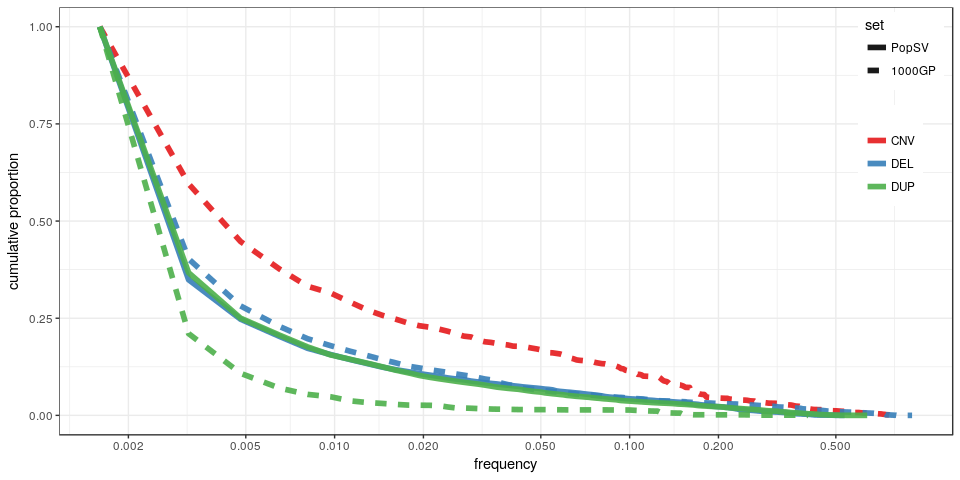
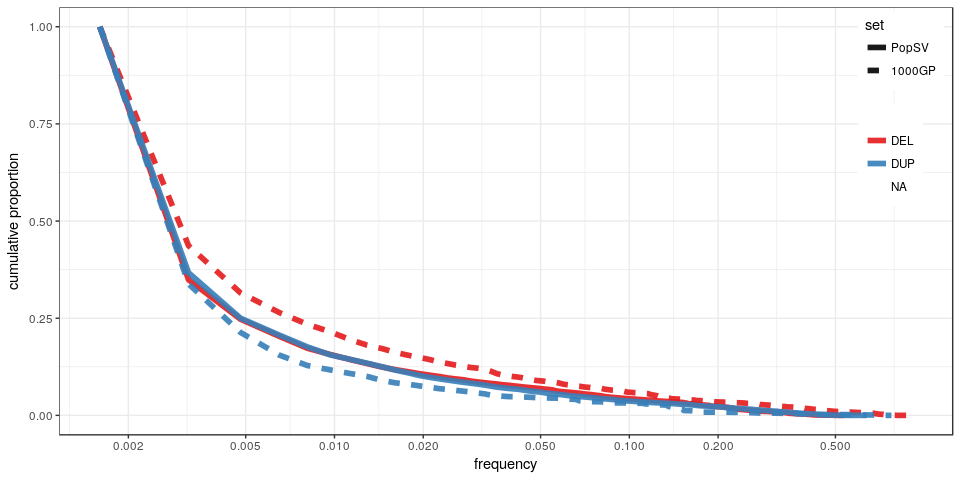
CN for tgp catalog

diff --git a/reports/PopSV-catalog-overview.md b/reports/PopSV-catalog-overview.md
@@ -150,7 +150,7 @@ On average in the individuals from the Twins dataset and the normals from the Ca
 --------------------------------
 
 ``` r
-load("../data/tgp-CNV-noX.RData")
+load("../data/tgp-CNV-noX-noCNV.RData")
 tgp.comp = subset(tgp, svsize > 300 & prop < 0.8)
 tgp.comp$extlowmap.prop = olProp(tgp.comp, extlowmap.gr)
 tgp.comp$extlowmap = tgp.comp$extlowmap.prop >= 0.9
@@ -162,11 +162,10 @@ nbCallCollapsed <- function(reg.gr) {
         nrow
 }
 sum.tgp.df = rbind(tgp.comp %>% as.data.frame %>% compAllNumbers %>% mutate(project = "1000GP", 
-    type = "all"), tgp.comp %>% as.data.frame %>% filter(type == "CNV") %>% 
-    compAllNumbers %>% mutate(project = "1000GP", type = "CNV"), tgp.comp %>% 
-    as.data.frame %>% filter(type == "DEL") %>% compAllNumbers %>% mutate(project = "1000GP", 
-    type = "DEL"), tgp.comp %>% as.data.frame %>% filter(type == "DUP") %>% 
-    compAllNumbers %>% mutate(project = "1000GP", type = "DUP"))
+    type = "all"), tgp.comp %>% as.data.frame %>% filter(type == "DEL") %>% 
+    compAllNumbers %>% mutate(project = "1000GP", type = "DEL"), tgp.comp %>% 
+    as.data.frame %>% filter(type == "DUP") %>% compAllNumbers %>% mutate(project = "1000GP", 
+    type = "DUP"))
 
 sum.tgp.df %>% select(project, type, everything()) %>% kable(digits = 2)
 ```
@@ -174,9 +173,8 @@ sum.tgp.df %>% select(project, type, everything()) %>% kable(digits = 2)
 | project | type |  sample|  nb.calls|  nb.calls.samp|  nb.lm.samp|  mean.size.kb|  prop.less3kb|  nb.less3kb.samp|  gen.mb|  gen.mb.min|  gen.mb.samp|  gen.mb.max|
 |:--------|:-----|-------:|---------:|--------------:|-----------:|-------------:|-------------:|----------------:|-------:|-----------:|------------:|-----------:|
 | 1000GP  | all  |    2504|     41979|        1024.44|        2.22|          6.00|          0.68|           700.52|  580.03|        3.39|         6.14|       26.30|
-| 1000GP  | CNV  |    2504|      2713|          92.07|        0.77|         25.23|          0.00|             0.00|   84.07|        0.81|         2.32|        6.69|
-| 1000GP  | DEL  |    2504|     33520|         920.97|        1.45|          3.56|          0.76|           700.52|  298.55|        2.16|         3.28|       10.58|
-| 1000GP  | DUP  |    2502|      5790|          11.41|        0.00|         47.32|          0.00|             0.00|  264.09|        0.01|         0.54|        9.60|
+| 1000GP  | DEL  |    2504|     36102|         975.32|        2.21|          4.67|          0.72|           700.52|  342.97|        2.73|         4.56|       14.98|
+| 1000GP  | DUP  |    2504|      8503|          48.26|        0.00|         32.54|          0.00|             0.00|  331.48|        0.28|         1.57|       11.32|
 
 ``` r
 prop.gain = merge.sum$gen.mb.samp/subset(sum.tgp.df, type == "all")$gen.mb.samp - 
@@ -229,8 +227,9 @@ sv.chaisson.gr = makeGRangesFromDataFrame(sv.chaisson)
 reduceDF <- function(df) {
     df %>% makeGRangesFromDataFrame %>% reduce %>% as.data.frame
 }
-tgp.col = tgp %>% as.data.frame %>% dplyr::select(-sample, -geno) %>% unique %>% 
-    group_by(type) %>% do(reduceDF(.)) %>% makeGRangesFromDataFrame(keep.extra.columns = TRUE)
+tgp.col = tgp %>% as.data.frame %>% dplyr::select(-sample, -CN) %>% unique %>% 
+    filter(type %in% c("DEL", "DUP")) %>% group_by(type) %>% do(reduceDF(.)) %>% 
+    makeGRangesFromDataFrame(keep.extra.columns = TRUE)
 popsv.col = cnv.df %>% dplyr::select(chr, start, end, type) %>% unique %>% group_by(type) %>% 
     do(reduceDF(.)) %>% makeGRangesFromDataFrame(keep.extra.columns = TRUE)
 ## Merge catalogs
@@ -292,16 +291,16 @@ chaisson.enr.s %>% kable
 
 | region       | catalog |    estimate|
 |:-------------|:--------|-----------:|
-| all          | 1000GP  |   0.0560314|
-| all          | PopSV   |   0.5451741|
-| deletion     | 1000GP  |   0.2321291|
-| deletion     | PopSV   |   0.2248042|
-| duplication  | 1000GP  |  -0.3702047|
-| duplication  | PopSV   |   0.8169537|
-| low-map      | 1000GP  |  -0.0031623|
-| low-map      | PopSV   |   0.7264475|
-| ext. low-map | 1000GP  |  -0.2408431|
-| ext. low-map | PopSV   |   0.0447992|
+| all          | 1000GP  |   0.0442356|
+| all          | PopSV   |   0.5478336|
+| deletion     | 1000GP  |   0.1980867|
+| deletion     | PopSV   |   0.2283583|
+| duplication  | 1000GP  |  -0.2905387|
+| duplication  | PopSV   |   0.8111299|
+| low-map      | 1000GP  |  -0.0015105|
+| low-map      | PopSV   |   0.7166357|
+| ext. low-map | 1000GP  |  -0.1971681|
+| ext. low-map | PopSV   |   0.0231800|
 
 ### Pendleton et al
 
@@ -342,16 +341,16 @@ pend.enr.s %>% kable
 
 | region       | catalog |    estimate|
 |:-------------|:--------|-----------:|
-| all          | 1000GP  |   0.0598020|
-| all          | PopSV   |   0.5972899|
-| deletion     | 1000GP  |   0.2442432|
-| deletion     | PopSV   |   0.2859889|
-| duplication  | 1000GP  |  -0.4753851|
-| duplication  | PopSV   |   0.8681149|
-| low-map      | 1000GP  |   0.1062318|
-| low-map      | PopSV   |   1.0142948|
-| ext. low-map | 1000GP  |   0.3510517|
-| ext. low-map | PopSV   |   0.8302212|
+| all          | 1000GP  |   0.0578390|
+| all          | PopSV   |   0.5944038|
+| deletion     | 1000GP  |   0.2189456|
+| deletion     | PopSV   |   0.2803774|
+| duplication  | 1000GP  |  -0.3480136|
+| duplication  | PopSV   |   0.8564898|
+| low-map      | 1000GP  |   0.0991162|
+| low-map      | PopSV   |   0.9905412|
+| ext. low-map | 1000GP  |   0.3364722|
+| ext. low-map | PopSV   |   0.7923829|
 
 Novel CNV regions
 -----------------

diff --git a/reports/annotation-download-format.md b/reports/annotation-download-format.md
@@ -193,33 +193,55 @@ segdup %>% as.data.frame %>% head %>% kable
 ``` r
 tgp = readVcf("../data/ALL.wgs.mergedSV.v8.20130502.svs.genotypes.vcf.gz", "hg19")
 tgp.df = cbind(tgp %>% info %>% as.data.frame %>% mutate(type = SVTYPE, end = END) %>% 
-    dplyr::select(type, end), rowRanges(tgp) %>% as.data.frame %>% dplyr::select(seqnames, 
-    start), geno(tgp)$GT %>% as.data.frame)
+    dplyr::select(type, end), rowRanges(tgp) %>% as.data.frame %>% mutate(ALT = unlist(lapply(ALT, 
+    paste, collapse = ";"))) %>% dplyr::select(seqnames, start, ALT), geno(tgp)$GT %>% 
+    as.data.frame)
 rownames(tgp.df) = NULL
 nb.samps = ncol(geno(tgp)$GT)
 tgp.df = tgp.df %>% mutate(type = ifelse(grepl("DEL", type), "DEL", type)) %>% 
     filter(seqnames != "X", type %in% c("CNV", "DEL", "DUP")) %>% gather(sample, 
-    geno, 5:ncol(tgp.df)) %>% filter(geno != "0|0", geno != ".", geno != "0") %>% 
+    geno, 6:ncol(tgp.df)) %>% filter(geno != "0|0", geno != ".", geno != "0") %>% 
     group_by(seqnames, start, end) %>% mutate(prop = n()/nb.samps, svsize = end - 
     start)
+
+genoToCN <- function(df) {
+    alt = df$ALT[1]
+    if (alt %in% c("A", "T", "G", "C")) {
+        if (all(df$type == "DEL")) {
+            cns = c(1, 0)
+        } else {
+            stop("Should be a deletion from ALT but is not according to type")
+        }
+    } else {
+        cns = gsub("<CN([0-9])>", "\\1", alt) %>% strsplit(";") %>% unlist %>% 
+            as.numeric
+        cns = c(1, cns)
+    }
+    geno.mat = strsplit(df$geno, "\\|") %>% unlist %>% as.numeric %>% matrix(2)
+    df$CN = cns[geno.mat[1, ] + 1] + cns[geno.mat[2, ] + 1]
+    df
+}
+
+tgp.df = tgp.df %>% group_by(ALT) %>% do(genoToCN(.)) %>% mutate(type = ifelse(CN < 
+    2, "DEL", NA), type = ifelse(CN > 2, "DUP", type))
 tgp = makeGRangesFromDataFrame(tgp.df, keep.extra.columns = TRUE)
-save(tgp, file = "../data/tgp-CNV-noX.RData")
-tgp %>% as.data.frame %>% head %>% mutate(geno = gsub("\\|", "\\/", geno)) %>% 
-    kable
+tgp$geno = tgp$ALT = NULL
+save(tgp, file = "../data/tgp-CNV-noX-noCNV.RData")
+tgp %>% as.data.frame %>% head %>% kable
 ```
 
-| seqnames |     start|       end|  width| strand | type | sample  | geno |       prop|  svsize|
-|:---------|---------:|---------:|------:|:-------|:-----|:--------|:-----|----------:|-------:|
-| 1        |   4204667|   4204717|     51| \*     | DEL  | HG00096 | 1/0  |  0.9604633|      50|
-| 1        |   6434482|   6445321|  10840| \*     | DEL  | HG00096 | 1/0  |  0.0087859|   10839|
-| 1        |   6438160|   6445897|   7738| \*     | DEL  | HG00096 | 1/0  |  0.0119808|    7737|
-| 1        |   7570074|   7571521|   1448| \*     | DEL  | HG00096 | 0/1  |  0.2919329|    1447|
-| 1        |   8200707|   8211256|  10550| \*     | DUP  | HG00096 | 0/1  |  0.0163738|   10549|
-| 1        |  10482499|  10483790|   1292| \*     | DEL  | HG00096 | 1/0  |  0.5371406|    1291|
+| seqnames |     start|       end|  width| strand | type | sample  |       prop|  svsize|   CN|
+|:---------|---------:|---------:|------:|:-------|:-----|:--------|----------:|-------:|----:|
+| 1        |   6434482|   6445321|  10840| \*     | DEL  | HG00096 |  0.0087859|   10839|    1|
+| 1        |   6438160|   6445897|   7738| \*     | DEL  | HG00096 |  0.0119808|    7737|    1|
+| 1        |   7570074|   7571521|   1448| \*     | DEL  | HG00096 |  0.2919329|    1447|    1|
+| 1        |  10482499|  10483790|   1292| \*     | DEL  | HG00096 |  0.5371406|    1291|    1|
+| 1        |  11682873|  11683189|    317| \*     | DEL  | HG00096 |  0.7232428|     316|    1|
+| 1        |  17676165|  17677662|   1498| \*     | DEL  | HG00096 |  0.5227636|    1497|    1|
 
 The catalog is reformatted to have one row per sample/variant. We save the coordinates and SV type information.
 
-To focus on CNV we kept the following *SVTYPE*s: *DEL*, *DUP* and *CNV*. To compare with PopSV we also removed variants smaller than 300bp, in chromosome X, or affecting more than 80% of the samples.
+To focus on CNV we kept the following *SVTYPE*s: *DEL*, *DUP* and *CNV*. For variants with *SVTYPE=CNV*, we compute the copy number from the genotype and (if different from 2) assign *DEL*/*DUP* for each sample. The copy-number information is saved in column *CN*. To compare with PopSV we removed variants in chromosome X.
 
 PacBio (Chaisson et al) SV catalog
 ----------------------------------
@@ -251,6 +273,17 @@ OMIM disease genes
 
 ``` r
 library(biomaRt)
+omim.marts = listMarts()
+omim.marts
+```
+
+    ##                biomart               version
+    ## 1 ENSEMBL_MART_ENSEMBL      Ensembl Genes 91
+    ## 2   ENSEMBL_MART_MOUSE      Mouse strains 91
+    ## 3     ENSEMBL_MART_SNP  Ensembl Variation 91
+    ## 4 ENSEMBL_MART_FUNCGEN Ensembl Regulation 91
+
+``` r
 ensembl = useMart("ENSEMBL_MART_ENSEMBL", dataset = "hsapiens_gene_ensembl", 
     host = "Aug2017.archive.ensembl.org")
 omim = getBM(attributes = c("hgnc_symbol", "mim_morbid_description"), mart = ensembl)
@@ -260,7 +293,7 @@ mergeDiseaseDesc <- function(desc) {
 }
 omim %<>% filter(mim_morbid_description != "") %>% group_by(hgnc_symbol) %>% 
     summarize(mim_morbid_description = mergeDiseaseDesc(mim_morbid_description))
-save(omim, file = "../data/omim-genes.RData")
+save(omim, omim.marts, file = "../data/omim-genes.RData")
 ```
 
 There are 3438 OMIM genes.
